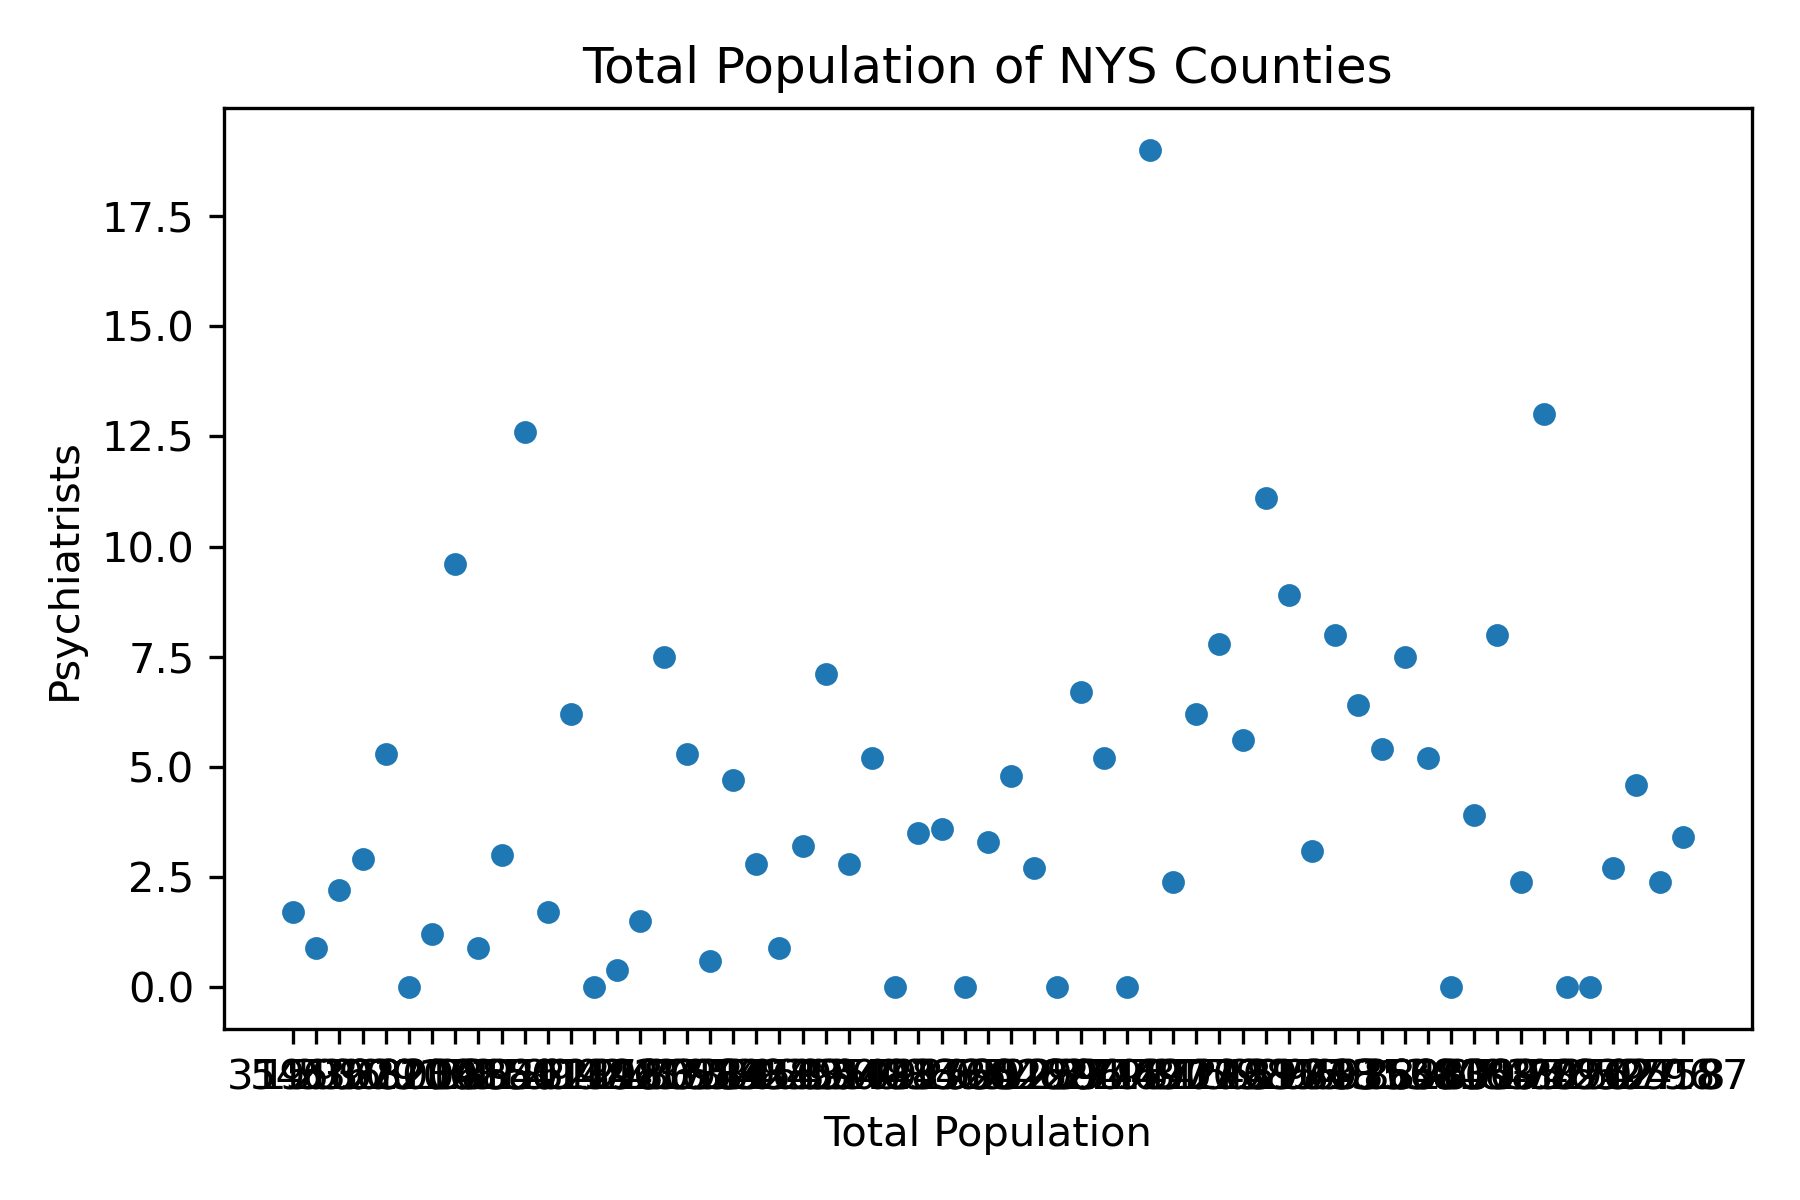
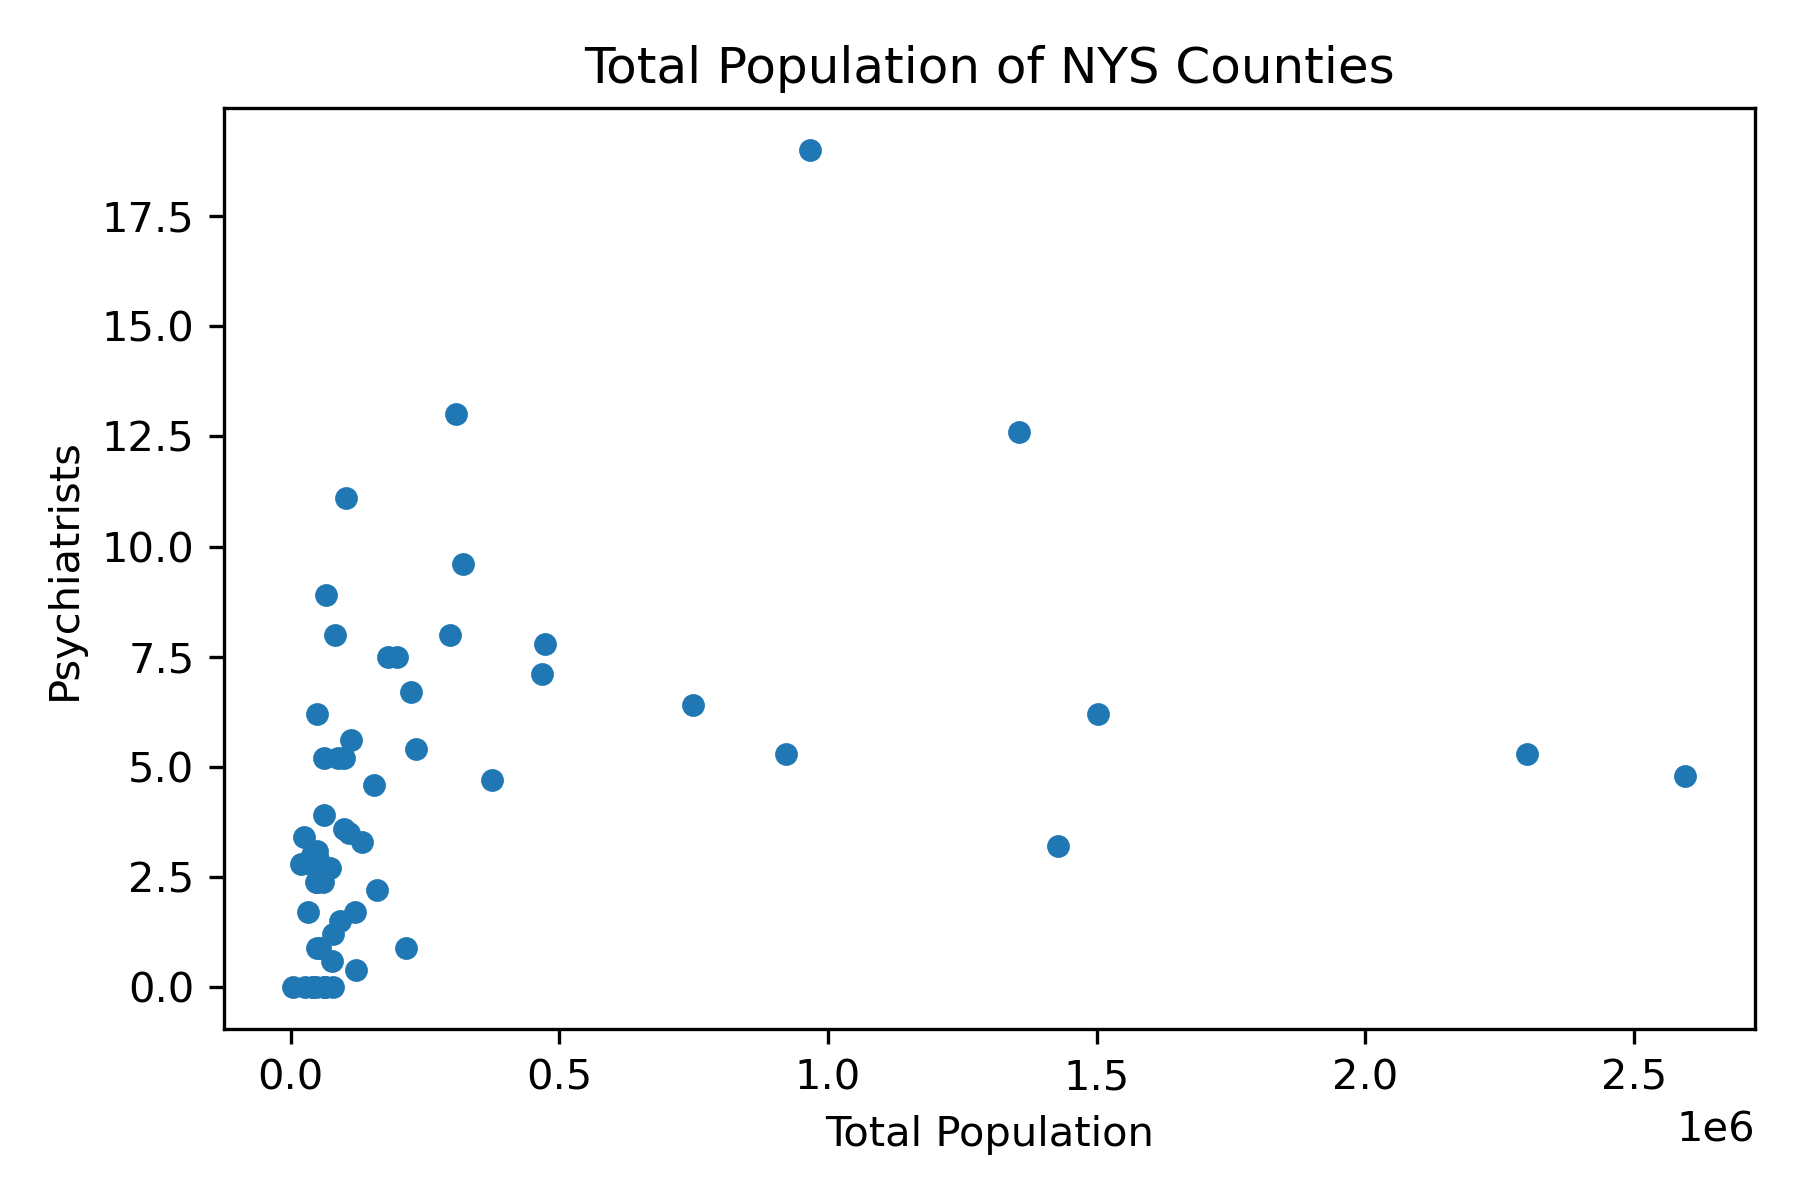
updated files

diff --git a/Data_Collection_Under18_Mental_Health_Services.py b/Data_Collection_Under18_Mental_Health_Services.py
@@ -17,7 +17,7 @@ plt.rcParams['figure.dpi'] = 300
 # create API to access census data (you will need to request a census key)
 url = "https://api.census.gov/data/2015/acs/acs5"
 params = {
-    "get": "B09001_001E,NAME,B01001_001E",
+    "get": "B09001_001E,NAME,B01001_001E,B19113_001E",
     "for": "county:*",
     "in": "state:36",
     "key": '37233c863bd5ebadbea1db94fdea521aa5ad4ddd'
@@ -37,10 +37,13 @@ under_18_county = pd.DataFrame(columns=headers, data=data)
 # rename census columns to descriptive column headers
 under_18_county = under_18_county.rename(columns={
     "B09001_001E": "POP", 
-    "B01001_001E": "TOTAL_POP"})
+    "B01001_001E": "TOTAL_POP",
+    "B19113_001E": "FAM_INCOME"})
 
-# convert the POP column into integers
-under_18_county["POP"]=under_18_county["POP"].astype(int)
+# convert relevant columns from strings into integers in a loop
+# cannot run regressions on strings
+for column in ["POP", "TOTAL_POP", "FAM_INCOME"]:
+    under_18_county[column]=under_18_county[column].astype(int)
 
 # import CSV file for '2015 Behavioral Health Service Providers in NYS by County'
 mental_health_2015 = pd.read_csv('Behavioral health service providers by county 2015.csv')

diff --git a/Displaying-Data.py b/Displaying-Data.py
@@ -40,7 +40,9 @@ fig,ax = plt.subplots()
 youth_MHS.plot.scatter(x= 'TOTAL_POP', y= 'Psychiatrists', ax=ax)
 
 # run a regression on the scatterplot with a 95% confidence interval
-#sns.lmplot(x= 'TOTAL_POP', y='Psychiatrists', data=youth_MHS)
+sns.lmplot(x= 'TOTAL_POP', y='Psychiatrists', data=youth_MHS)
+sns.lmplot(x= 'FAM_INCOME', y='Psychiatrists', data=youth_MHS)
+
 
 ax.set_title("Total Population of NYS Counties")
 ax.set_xlabel("Total Population")
@@ -56,6 +58,13 @@ youth_MHS.plot.scatter(x= 'Licensed Social Workers', y='Psychiatrists',ax=ax)
 
 # run a regression on the scatterplot with a 95% confidence interval
 sns.lmplot(x= 'Licensed Social Workers', y='Psychiatrists', data=youth_MHS);
+
+#%%
+
+# create skatter plot that varies in size 
+# seborn relplot
+
+
 
 
 #%% HEX PLOT
